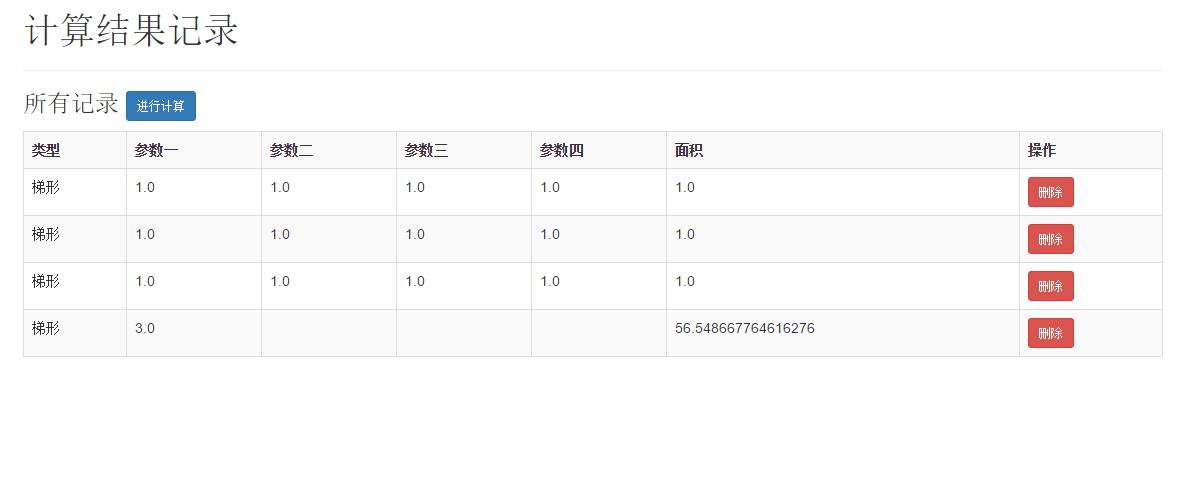
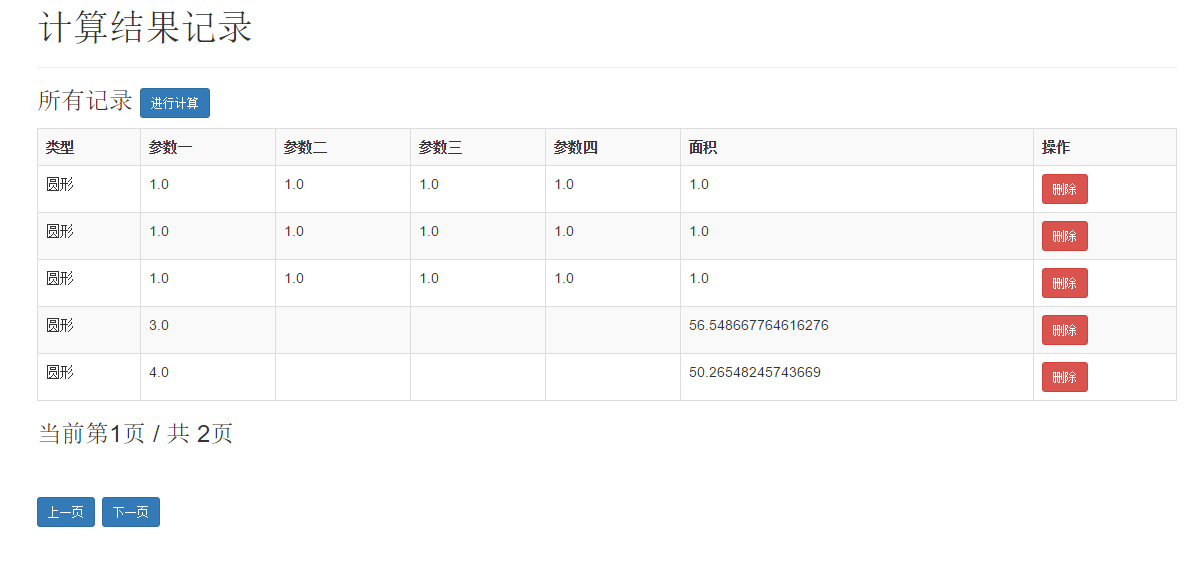
添加纪录分页功能

diff --git a/src/main/java/com/brioal/controller/MainController.java b/src/main/java/com/brioal/controller/MainController.java
@@ -29,70 +29,8 @@ class MainController {
         return "index";
     }
 
-    @RequestMapping(value = "/records", method = RequestMethod.GET)
-    public String toRecorders(ModelMap modelMap) {
-        List<ShapesEntity> list = mShapeRepository.findAll();
 
-        for (int i = 0; i < list.size(); i++) {
-            ShapesEntity entity = list.get(i);
-            switch (entity.getType()) {
-                case 0:
-                    //三角形
-                    entity.setStringType("三角形");
-                    break;
-                case 1:
-                    //矩形
-                    entity.setStringType("矩形");
-                    break;
-                case 2:
-                    //圆形
-                    entity.setStringType("圆形");
-                    break;
-                case 3:
-                    //梯形
-                    entity.setStringType("梯形");
-                    break;
-            }
-        }
-        modelMap.addAttribute("list", list);
-        return "records";
-    }
 
-    @RequestMapping(value = "/calcu", method = RequestMethod.POST)
-    public String calculate(@ModelAttribute("shape") ShapesEntity userEntity, ModelMap map) {
-        userEntity.setXuhao((int) System.currentTimeMillis());
-        switch (userEntity.getType()) {
-            case 1:
-                //三角形
-                double a = userEntity.getValue1();
-                double b = userEntity.getValue2();
-                double c = userEntity.getValue3();
-                userEntity.setArea(((1.0 / 4.0) * Math.sqrt((a + b + c) * (a + b - c) * (a + c - b) * (b + c - a))));
-                userEntity.setStringType("三角形");
-                break;
-            case 2:
-                //矩形
-                userEntity.setArea(userEntity.getValue1() * userEntity.getValue2());
-                userEntity.setStringType("矩形");
-                break;
-            case 3:
-                //圆形
-                userEntity.setArea(2 * Math.PI * userEntity.getValue1() * userEntity.getValue1());
-                userEntity.setStringType("圆形");
-                break;
-            case 4:
-                //梯形
-                a = userEntity.getValue1();
-                b = userEntity.getValue2();
-                c = userEntity.getValue3();
-                userEntity.setArea((a + b) * c / 2);
-                userEntity.setStringType("梯形");
-                break;
-        }
-        mShapeRepository.saveAndFlush(userEntity);
-        map.addAttribute("result", userEntity);
-        return "result";
-    }
 
     @RequestMapping("/delete/{id}")
     public String deleteBlog(@PathVariable("id") int id) {

diff --git a/src/main/java/com/brioal/controller/CalculateController.java b/src/main/java/com/brioal/controller/CalculateController.java
@@ -1,0 +1,57 @@
+package com.brioal.controller;
+
+import com.brioal.model.ShapesEntity;
+import com.brioal.repository.ShapeRepository;
+import org.springframework.beans.factory.annotation.Autowired;
+import org.springframework.stereotype.Controller;
+import org.springframework.ui.ModelMap;
+import org.springframework.web.bind.annotation.ModelAttribute;
+import org.springframework.web.bind.annotation.RequestMapping;
+import org.springframework.web.bind.annotation.RequestMethod;
+
+/**
+ * Created by 玩弄温柔 on 2017/7/11.
+ */
+@Controller
+public class CalculateController {
+
+    @Autowired
+    ShapeRepository mShapeRepository;
+
+    @RequestMapping(value = "/calcu", method = RequestMethod.POST)
+    public String calculate(@ModelAttribute("shape") ShapesEntity userEntity, ModelMap map) {
+        userEntity.setXuhao((int) System.currentTimeMillis());
+        switch (userEntity.getType()) {
+            case 1:
+                //三角形
+                double a = userEntity.getValue1();
+                double b = userEntity.getValue2();
+                double c = userEntity.getValue3();
+                userEntity.setArea(((1.0 / 4.0) * Math.sqrt((a + b + c) * (a + b - c) * (a + c - b) * (b + c - a))));
+                userEntity.setStringType("三角形");
+                break;
+            case 2:
+                //矩形
+                userEntity.setArea(userEntity.getValue1() * userEntity.getValue2());
+                userEntity.setStringType("矩形");
+                break;
+            case 3:
+                //圆形
+                userEntity.setArea(Math.PI * userEntity.getValue1() * userEntity.getValue1());
+                userEntity.setStringType("圆形");
+                break;
+            case 4:
+                //梯形
+                a = userEntity.getValue1();
+                b = userEntity.getValue2();
+                c = userEntity.getValue3();
+                userEntity.setArea((a + b) * c / 2);
+                userEntity.setStringType("梯形");
+                break;
+        }
+        mShapeRepository.saveAndFlush(userEntity);
+        map.addAttribute("result", userEntity);
+        return "result";
+    }
+
+}

diff --git a/src/main/java/com/brioal/controller/RecordsController.java b/src/main/java/com/brioal/controller/RecordsController.java
@@ -1,0 +1,62 @@
+package com.brioal.controller;
+
+import com.brioal.model.ShapesEntity;
+import com.brioal.repository.ShapeRepository;
+
+import org.springframework.beans.factory.annotation.Autowired;
+import org.springframework.data.domain.Page;
+import org.springframework.data.domain.PageRequest;
+import org.springframework.stereotype.Controller;
+import org.springframework.ui.ModelMap;
+import org.springframework.web.bind.annotation.PathVariable;
+import org.springframework.web.bind.annotation.RequestMapping;
+import org.springframework.web.bind.annotation.RequestMethod;
+
+import java.util.List;
+
+/**
+ * Created by 玩弄温柔 on 2017/7/11.
+ */
+@Controller
+public class RecordsController {
+    @Autowired
+    ShapeRepository mShapeRepository;
+
+    /**
+     * 记录显示
+     * @param modelMap
+     * @return
+     */
+    @RequestMapping(value = "/records/{page}", method = RequestMethod.GET)
+    public String toRecorders(@PathVariable("page") final int page, ModelMap modelMap) {
+        long allCount = mShapeRepository.count();
+        Page<ShapesEntity> pagers = mShapeRepository.findAll(new PageRequest(page, 5, null));
+
+        List<ShapesEntity> list = pagers.getContent();
+        for (int i = 0; i < list.size(); i++) {
+            ShapesEntity entity = list.get(i);
+            switch (entity.getType()) {
+                case 1:
+                    //三角形
+                    entity.setStringType("三角形");
+                    break;
+                case 2:
+                    //矩形
+                    entity.setStringType("矩形");
+                    break;
+                case 3:
+                    //圆形
+                    entity.setStringType("圆形");
+                    break;
+                case 4:
+                    //梯形
+                    entity.setStringType("梯形");
+                    break;
+            }
+        }
+        modelMap.addAttribute("list", list);
+        modelMap.addAttribute("page", page);
+        modelMap.addAttribute("count", (int)(allCount/5.0f+0.5));
+        return "records";
+    }
+}

diff --git a/src/main/java/com/brioal/model/ShapesEntity.java b/src/main/java/com/brioal/model/ShapesEntity.java
@@ -24,8 +24,18 @@ public class ShapesEntity {
     private int mXuhao;
     private String mTime = "";
     private String mStringType = "";
+    private Double value1;
+    private Double value2;
+    private Double value3;
+    private Double value4;
+    private Double area;
+    private int type;
+    private long xuhao;
+    private String stringType;
+    private String time;
 
-
+    @Basic
+    @Column(name = "time", nullable = true, length = 255)
     public String getTime() {
         return mTime;
     }
@@ -34,6 +44,8 @@ public class ShapesEntity {
         mTime = time;
     }
 
+    @Basic
+    @Column(name = "stringType", nullable = true, length = 255)
     public String getStringType() {
         return mStringType;
     }
@@ -106,6 +118,10 @@ public class ShapesEntity {
     @Column(name = "xuhao", nullable = false)
     public int getXuhao() {
         return mXuhao;
+    }
+
+    public void setXuhao(long xuhao) {
+        this.xuhao = xuhao;
     }
 
     public void setXuhao(int xuhao) {
